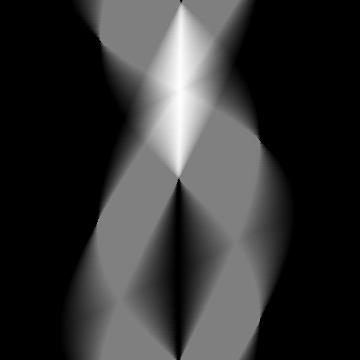
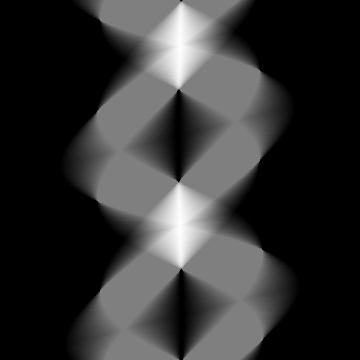
Weave filtering and step from 180 to 360

diff --git a/tomograph.py b/tomograph.py
@@ -52,6 +52,8 @@ class Window(QtWidgets.QMainWindow):
         self.rrs = []
         self.ccs = []
 
+        self.filt_arr = []
+
     def initGUI(self):
 
         self.btn_start = QtWidgets.QPushButton("Start", self)
@@ -69,6 +71,7 @@ class Window(QtWidgets.QMainWindow):
         self.btn_filter.setGeometry(670, 25, 300, 50)
         self.btn_filter.setStyleSheet("font-size: 18px;")
         self.btn_filter.clicked.connect(self.filter_output)
+        self.btn_filter.setEnabled(False)
 
         self.b2.setGeometry(600, 25, 320, 50)
 
@@ -152,6 +155,27 @@ class Window(QtWidgets.QMainWindow):
         self.show()
 
     def filter_output(self):
+
+        self.btn_filter.setEnabled(False)
+
+        mask = [[1, 1, 1],
+                [1, 1, 1],
+                [1, 1, 1]]
+
+        arr = self.filt_arr
+
+        for i in range(1, arr.shape[0]-1):
+            for j in range(1, arr.shape[1]-1):
+                sum = 0
+                for m in range(-1, 1, 1):
+                    for n in range(-1, 1, 1):
+                        sum += mask[m][n] * arr[i-m][j-n][0]
+                arr[i][j] = [sum, sum, sum]
+
+        self.set_output_image(arr)
+
+        self.btn_filter.setEnabled(True)
+
         print("filtruje")
 
     def valuechange(self):
@@ -166,7 +190,7 @@ class Window(QtWidgets.QMainWindow):
         angle = self.s3.value()
         self.slider_label3.setText(angle.__str__()+"°")
 
-    def normalizeArray(self,arr):
+    def normalizeArray(self, arr):
         arrMax = np.amax(arr)
         arr = arr / arrMax
         return arr
@@ -215,6 +239,7 @@ class Window(QtWidgets.QMainWindow):
 
         new_out = self.normalizeArray(output)
         new_out_filt = self.normalize_2nd(new_out)
+        self.filt_arr = new_out_filt
         o_img = toimage(new_out_filt)
         o_img.save("output.jpg")
 
@@ -224,6 +249,8 @@ class Window(QtWidgets.QMainWindow):
         self.image_label3.setPixmap(pixMap)
 
     def set_output_image(self, output):
+
+        #TODO dopisz argument true/false decydujący czy zapisujemy jako .jpg
 
         QtGui.QGuiApplication.processEvents()
 
@@ -245,7 +272,7 @@ class Window(QtWidgets.QMainWindow):
         l = self.s3.value()
         r = sqrt((imgSize[0] / 2)**2 + (imgSize[1] / 2)**2)
 
-        steps = int(180 / step)
+        steps = int(360 / step)
         self.sinogram = np.zeros((steps, detectorNumber, 3))
 
         show_progress = not self.b2.isChecked()
@@ -298,7 +325,6 @@ class Window(QtWidgets.QMainWindow):
         print('DONE')
         self.array = []
 
-
     def set_sinogram_on_label(self, sin):
 
         sinogram = sin
@@ -315,15 +341,11 @@ class Window(QtWidgets.QMainWindow):
 
         return sinogram
 
-
-    def generateOutput(self):
-        print("generuje output")
-
     def start(self):
         self.btn_start.setEnabled(False)
         self.b2.setEnabled(False)
         self.generateSinogram()
-        #self.inverseRadonTransform(sinogram)
+        self.btn_filter.setEnabled(True)
         self.btn_start.setEnabled(True)
         self.b2.setEnabled(True)
 
@@ -334,8 +356,6 @@ class Window(QtWidgets.QMainWindow):
                                self.image_label1.height())
         self.image_label1.setPixmap(pixmap)
         self.imgAs2DArray = cv2.imread(name[0])
-        #resized = cv2.resize(self.imgAs2DArray, (300, 300), interpolation=cv2.INTER_AREA)
-        #self.imgAs2DArray = resized
         self.btn_start.setEnabled(True)
 
 def run():
